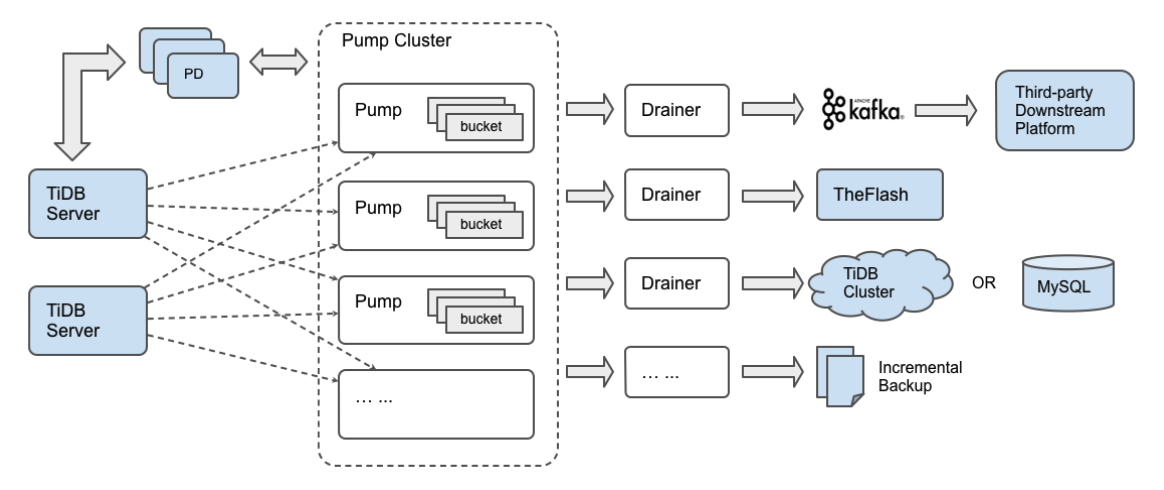
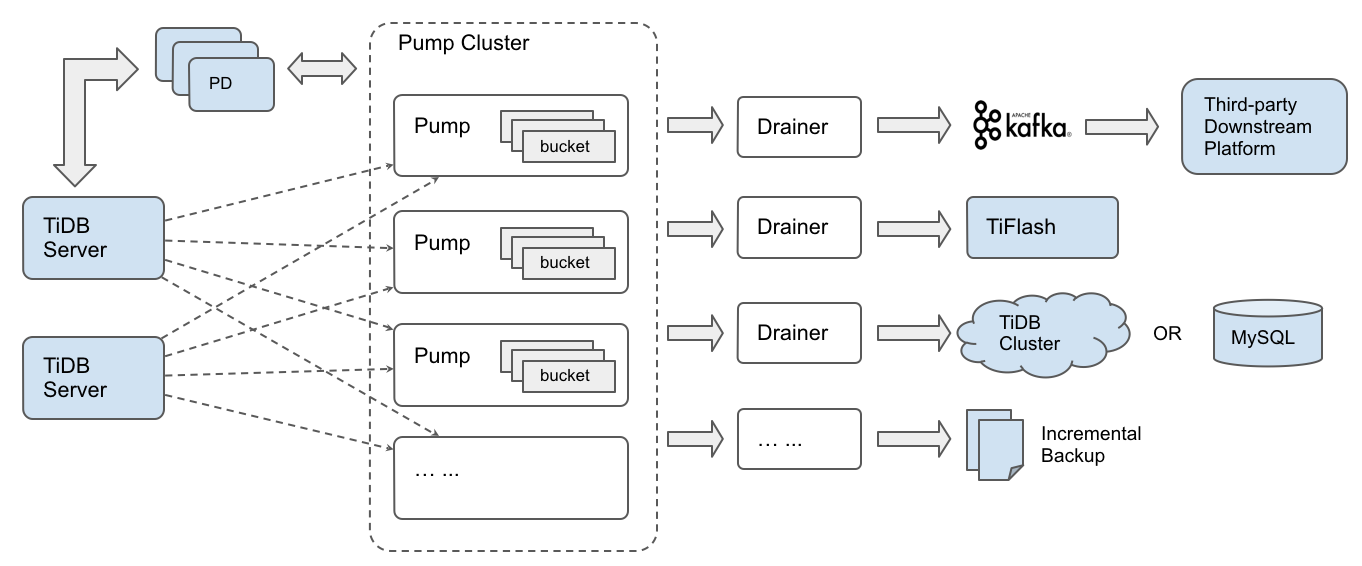
update architecture pic && update the result of binlogctl

diff --git a/tools/tidb-binlog-cluster.md b/tools/tidb-binlog-cluster.md
@@ -54,7 +54,7 @@ Pump 和 Drainer 都支持部署和运行在 Intel x86-64 架构的 64 位通用
 * Drainer 不支持对 ignore schemas（在过滤列表中的 schemas）的 table 进行 rename DDL 操作。
 * 在已有的 TiDB 集群中启动 Drainer，一般需要全量备份并且获取 savepoint，然后导入全量备份，最后启动 Drainer 从 savepoint 开始同步增量数据。
 * Drainer 支持将 Binlog 同步到 MySQL、TiDB、Kafka 或者本地文件。如果需要将 Binlog 同步到其他类型的目的地中，可以设置 Drainer 将 Binlog 同步到 Kafka，再读取 Kafka 中的数据进行自定义处理，参考 [binlog slave client 用户文档](../tools/binlog-slave-client.md)。
-* 如果 TiDB-Binlog 用于增量恢复，可以设置下游为 `pb`，drainer 会将 binlog 转化为指定的 proto buffer 格式的数据，再写入到本地文件中。这样就可以使用 [Reparo](../tools/reparo.md) 恢复增量数据。
+* 如果 TiDB-Binlog 用于增量恢复，可以设置下游为 `pb`，Drainer 会将 binlog 转化为指定的 proto buffer 格式的数据，再写入到本地文件中。这样就可以使用 [Reparo](../tools/reparo.md) 恢复增量数据。
 * Pump/Drainer 的状态需要区分已暂停（paused）和下线（offline），Ctrl + C 或者 kill 进程，Pump 和 Drainer 的状态都将变为 paused。暂停状态的 Pump 不需要将已保存的 Binlog 数据全部发送到 Drainer；如果需要较长时间退出 Pump（或不再使用该 Pump），需要使用 binlogctl 工具来下线 Pump。Drainer 同理。
 * 如果下游为 MySQL/TiDB，数据同步后可以使用 [sync-diff-inspector](../tools/sync-diff-inspector.md) 进行数据校验。
 
@@ -167,9 +167,10 @@ Pump 和 Drainer 都支持部署和运行在 Intel x86-64 架构的 64 位通用
     ```bash
     $ cd /home/tidb/tidb-ansible
     $ resources/bin/binlogctl -pd-urls=http://172.16.10.72:2379 -cmd pumps
-    2018/09/21 16:45:54 nodes.go:46: [info] pump: &{NodeID:ip-172-16-10-72:8250 Addr:172.16.10.72:8250 State:online IsAlive:false Score:0 Label:<nil> MaxCommitTS:0 UpdateTS:403051525690884099}
-    2018/09/21 16:45:54 nodes.go:46: [info] pump: &{NodeID:ip-172-16-10-73:8250 Addr:172.16.10.73:8250 State:online IsAlive:false Score:0 Label:<nil> MaxCommitTS:0 UpdateTS:403051525703991299}
-    2018/09/21 16:45:54 nodes.go:46: [info] pump: &{NodeID:ip-172-16-10-74:8250 Addr:172.16.10.74:8250 State:online IsAlive:false Score:0 Label:<nil> MaxCommitTS:0 UpdateTS:403051525717360643}
+
+    INFO[0000] pump: {NodeID: ip-172-16-10-72:8250, Addr: 172.16.10.72:8250, State: online, MaxCommitTS: 403051525690884099, UpdateTime: 2018-12-25 14:23:37 +0800 CST}
+    INFO[0000] pump: {NodeID: ip-172-16-10-73:8250, Addr: 172.16.10.73:8250, State: online, MaxCommitTS: 403051525703991299, UpdateTime: 2018-12-25 14:23:36 +0800 CST}
+    INFO[0000] pump: {NodeID: ip-172-16-10-74:8250, Addr: 172.16.10.74:8250, State: online, MaxCommitTS: 403051525717360643, UpdateTime: 2018-12-25 14:23:35 +0800 CST}
     ```
 
 #### 第 3 步：部署 Drainer
@@ -191,7 +192,7 @@ Pump 和 Drainer 都支持部署和运行在 Intel x86-64 架构的 64 位通用
 
 2. 全量数据的备份与恢复
 
-    如果下游为 MySQL/TiDB， 需要保证数据的完整性，在 Drainer 启动前（Pump 运行后十分钟左右）进行数据的全量备份和恢复。
+    如果下游为 MySQL/TiDB， 需要保证数据的完整性，在 Pump 运行后十分钟左右（TiDB 事务的最长时间）进行数据的全量备份和恢复。
 
     推荐使用 mydumper 备份 TiDB 的全量数据，再使用 loader 将备份数据导入到下游。具体使用方法参考：[备份与恢复](https://github.com/pingcap/docs-cn/blob/master/op-guide/backup-restore.md)。
 
@@ -596,28 +597,30 @@ Usage of binlogctl:
 
 - 查询所有的 Pump/Drainer 的状态：
 
+    设置 `cmd` 为 `pumps` 或者 `drainers` 来查看所有 Pump 或者 Drainer 的状态。例如：
+
     ```bash
-    bin/binlogctl -pd-urls=http://127.0.0.1:2379 -cmd pumps/drainers
+    bin/binlogctl -pd-urls=http://127.0.0.1:2379 -cmd pumps
 
-    2018/12/18 03:17:09 nodes.go:46: [info] pump: &{NodeID:1.1.1.1:8250 Addr:pump:8250 State:online IsAlive:false Score:0 Label:<nil> MaxCommitTS:405039487358599169 UpdateTS:405027205608112129}
+    INFO[0000] pump: {NodeID: ip-172-16-30-67:8250, Addr: 172.16.30.192:8250, State: online, MaxCommitTS: 405197570529820673, UpdateTime: 2018-12-25 14:23:37 +0800 CST}
     ```
-
-    注意：IsAlive，Score 以及 Label 字段目前没有使用，不需要关注这几个值。
 
 - 修改 Pump/Drainer 的状态
   
-    Pump/Drainer 的状态可以为：online，pausing，paused，closing 以及 offline。
+    设置 `cmd` 为 `update-pump` 或者 `update-drainer` 来更新 Pump 或者 Drainer 的状态。 Pump 和 Drainer 的状态可以为：online，pausing，paused，closing 以及 offline。例如：
 
     ```bash
-    bin/binlogctl -pd-urls=http://127.0.0.1:2379 -cmd update-pump/update-drainer -node-id ip-127-0-0-1:8250/{nodeID} -state {state}
+    bin/binlogctl -pd-urls=http://127.0.0.1:2379 -cmd update-pump -node-id ip-127-0-0-1:8250/{nodeID} -state {state}
     ```
 
     这条命令会修改 Pump/Drainer 保存在 pd 中的状态。
  
 - 暂停/下线 Pump/Drainer
 
+    分别设置 `cmd` 为 `pause-pump`、`pause-drainer`、`offline-pump`、`offline-drainer` 来暂停 Pump、暂停 Drainer、下线 Pump、下线 Drainer。例如：
+
     ```bash
-    bin/binlogctl -pd-urls=http://127.0.0.1:2379 -cmd pause-pump/pause-drainer/offline-pump/offline-drainer -node-id ip-127-0-0-1:8250/{nodeID}
+    bin/binlogctl -pd-urls=http://127.0.0.1:2379 -cmd pause-pump -node-id ip-127-0-0-1:8250/{nodeID}
     ```
 
     binlogctl 会发送 HTTP 请求给 Pump/Drainer，Pump/Drainer 收到命令后会退出进程，并且将自己的状态设置为 paused/offline。
